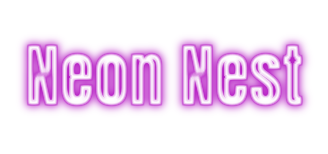
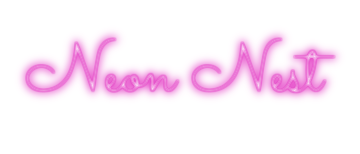
.

diff --git a/Customizations.html b/Customizations.html
@@ -32,14 +32,14 @@
     <nav class="m-4 backdrop-blur-3xl backdrop-opacity-75 bg-black bg-opacity-35 p-4 rounded-lg shadow-lg">
         <div class="container mx-auto flex items-center justify-between">
             <div class="flex items-center">
-                <img src="/Images/logo.png" alt="Logo" class="h-12 w-auto">
+                <img src="/Images/neon-nest.png" alt="Logo" class="h-12 w-auto">
             </div>
 
             <ul class="flex space-x-6">
-                <li><a href="https://serpmillers.github.io/neon-nest/" class="font-semibold hover:text-gray-300">Home</a></li>
-                <li><a href="https://serpmillers.github.io/neon-nest/Decorations.html" class="font-semibold hover:text-gray-300">Decorations</a></li>
-                <li><a href="https://serpmillers.github.io/neon-nest/Customizations.html" class="font-semibold hover:text-gray-300">Customizations</a></li>
-                <li><a href="https://serpmillers.github.io/neon-nest/Placards.html" class="font-semibold hover:text-gray-300">Placards</a></li>
+                <li><a href="/index.html" class="font-semibold hover:text-gray-300">Home</a></li>
+                <li><a href="/Decorations.html" class="font-semibold hover:text-gray-300">Decorations</a></li>
+                <li><a href="/Customizations.html" class="font-semibold hover:text-gray-300">Customizations</a></li>
+                <li><a href="/Placards.html" class="font-semibold hover:text-gray-300">Placards</a></li>
             </ul>
         </div>
     </nav>

diff --git a/Decorations.html b/Decorations.html
@@ -32,14 +32,14 @@
     <nav class="m-4 backdrop-blur-3xl backdrop-opacity-75 bg-black bg-opacity-35 p-4 rounded-lg shadow-lg">
         <div class="container mx-auto flex items-center justify-between">
             <div class="flex items-center">
-                <img src="/Images/logo.png" alt="Logo" class="h-12 w-auto">
+                <img src="/Images/neon-nest.png" alt="Logo" class="h-12 w-auto">
             </div>
 
             <ul class="flex space-x-6">
-                <li><a href="https://serpmillers.github.io/neon-nest/" class="font-semibold hover:text-gray-300">Home</a></li>
-                <li><a href="https://serpmillers.github.io/neon-nest/Decorations.html" class="font-semibold hover:text-gray-300">Decorations</a></li>
-                <li><a href="https://serpmillers.github.io/neon-nest/Customizations.html" class="font-semibold hover:text-gray-300">Customizations</a></li>
-                <li><a href="https://serpmillers.github.io/neon-nest/Placards.html" class="font-semibold hover:text-gray-300">Placards</a></li>
+                <li><a href="/index.html" class="font-semibold hover:text-gray-300">Home</a></li>
+                <li><a href="/Decorations.html" class="font-semibold hover:text-gray-300">Decorations</a></li>
+                <li><a href="/Customizations.html" class="font-semibold hover:text-gray-300">Customizations</a></li>
+                <li><a href="/Placards.html" class="font-semibold hover:text-gray-300">Placards</a></li>
             </ul>
         </div>
     </nav>

diff --git a/Placards.html b/Placards.html
@@ -32,14 +32,14 @@
     <nav class="m-4 backdrop-blur-3xl backdrop-opacity-75 bg-black bg-opacity-35 p-4 rounded-lg shadow-lg">
         <div class="container mx-auto flex items-center justify-between">
             <div class="flex items-center">
-                <img src="/Images/logo.png" alt="Logo" class="h-12 w-auto">
+                <img src="/Images/neon-nest.png" alt="Logo" class="h-12 w-auto">
             </div>
 
             <ul class="flex space-x-6">
-                <li><a href="https://serpmillers.github.io/neon-nest/" class="font-semibold hover:text-gray-300">Home</a></li>
-                <li><a href="https://serpmillers.github.io/neon-nest/Decorations.html" class="font-semibold hover:text-gray-300">Decorations</a></li>
-                <li><a href="https://serpmillers.github.io/neon-nest/Customizations.html" class="font-semibold hover:text-gray-300">Customizations</a></li>
-                <li><a href="https://serpmillers.github.io/neon-nest/Placards.html" class="font-semibold hover:text-gray-300">Placards</a></li>
+                <li><a href="/index.html" class="font-semibold hover:text-gray-300">Home</a></li>
+                <li><a href="/Decorations.html" class="font-semibold hover:text-gray-300">Decorations</a></li>
+                <li><a href="/Customizations.html" class="font-semibold hover:text-gray-300">Customizations</a></li>
+                <li><a href="/Placards.html" class="font-semibold hover:text-gray-300">Placards</a></li>
             </ul>
         </div>
     </nav>

diff --git a/index.html b/index.html
@@ -32,14 +32,14 @@
     <nav class="m-4 backdrop-blur-3xl backdrop-opacity-75 bg-black bg-opacity-35 p-4 rounded-lg shadow-lg">
         <div class="container mx-auto flex items-center justify-between">
             <div class="flex items-center">
-                <img src="Images/logo.png" alt="Logo" class="h-12 w-auto">
+                <img src="Images/neon-nest.png" alt="Logo" class="h-12 w-auto">
             </div>
 
             <ul class="flex space-x-6">
-                <li><a href="https://serpmillers.github.io/neon-nest/" class="font-semibold hover:text-gray-300">Home</a></li>
-                <li><a href="https://serpmillers.github.io/neon-nest/Decorations.html" class="font-semibold hover:text-gray-300">Decorations</a></li>
-                <li><a href="https://serpmillers.github.io/neon-nest/Customizations.html" class="font-semibold hover:text-gray-300">Customizations</a></li>
-                <li><a href="https://serpmillers.github.io/neon-nest/Placards.html" class="font-semibold hover:text-gray-300">Placards</a></li>
+                <li><a href="/index.html" class="font-semibold hover:text-gray-300">Home</a></li>
+                <li><a href="/Decorations.html" class="font-semibold hover:text-gray-300">Decorations</a></li>
+                <li><a href="/Customizations.html" class="font-semibold hover:text-gray-300">Customizations</a></li>
+                <li><a href="/Placards.html" class="font-semibold hover:text-gray-300">Placards</a></li>
             </ul>
         </div>
     </nav>
